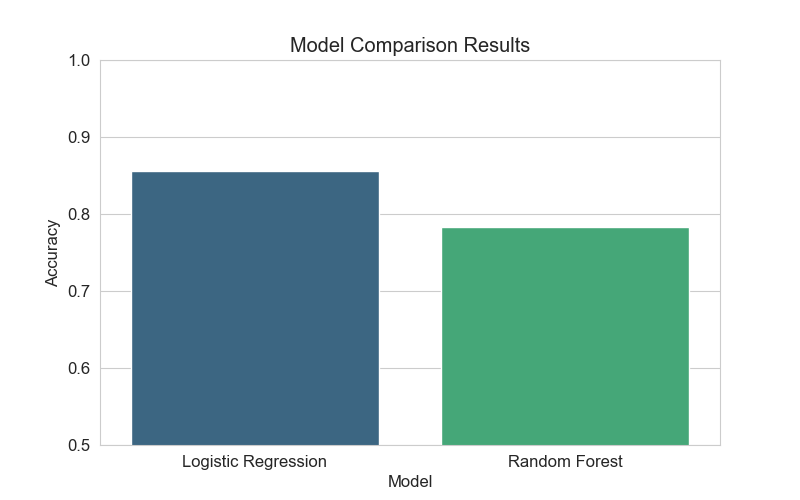
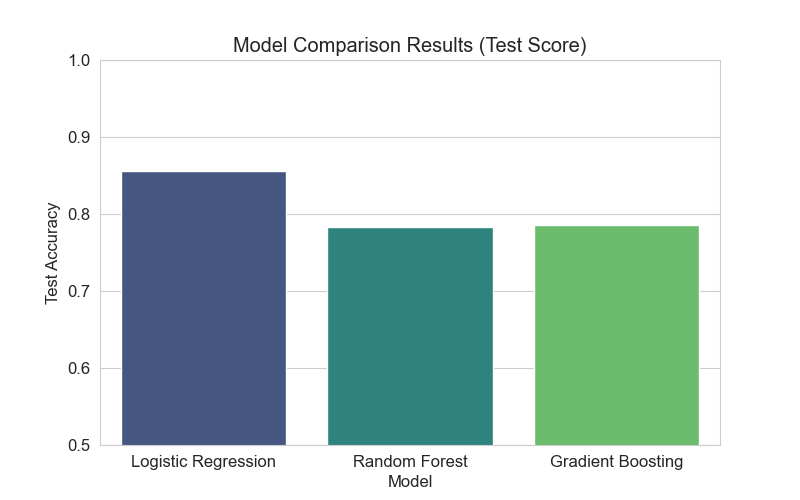
Last Fix before presentation

Changed region(s): [[0.125, 0.33, 0.875, 0.96], [0.2812, 0.06, 0.75, 0.12], [0.0312, 0.42, 0.0938, 0.6]]

diff --git a/main.py b/main.py
@@ -4,18 +4,18 @@ import re
 import matplotlib.pyplot as plt
 import seaborn as sns
 from textblob import TextBlob
-import os # Dosya kaydetmek için
+import os
 
 # Scikit-learn Libraries
-from sklearn.model_selection import train_test_split, StratifiedKFold, RandomizedSearchCV
+from sklearn.model_selection import train_test_split, RandomizedSearchCV, learning_curve
 from sklearn.feature_extraction.text import TfidfVectorizer
 from sklearn.linear_model import LogisticRegression
-from sklearn.ensemble import RandomForestClassifier
+from sklearn.ensemble import RandomForestClassifier, GradientBoostingClassifier
 from sklearn.pipeline import FeatureUnion
 from sklearn.preprocessing import FunctionTransformer, LabelEncoder
 from sklearn.metrics import accuracy_score, classification_report, confusion_matrix
 
-# Imbalanced-learn (Template 4.2: Data Augmentation for Text)
+# Imbalanced-learn
 from imblearn.over_sampling import SMOTE
 from imblearn.pipeline import Pipeline as ImbPipeline 
 
@@ -28,28 +28,17 @@ sns.set_style("whitegrid")
 plt.rcParams['figure.figsize'] = (10, 6)
 plt.rcParams['font.size'] = 12
 
-# Rapor için görsellerin kaydedileceği klasörü oluştur
 if not os.path.exists('project_results'):
     os.makedirs('project_results')
 
 # ==========================================
-# 1. HELPER FUNCTIONS (Template 4.2: Pre-processing)
-# ==========================================
-# ==========================================
-# 1. HELPER FUNCTIONS (GÜNCELLENMİŞ HALİ)
+# 1. HELPER FUNCTIONS
 # ==========================================
 def clean_text(text):
     text = str(text).lower()
-    
-    # [DÜZELTME BURADA] '' yerine ' ' (boşluk) koyduk
-    # Böylece "it.I" -> "it I" olur, "iti" oluşmaz.
     text = re.sub(r'[^\w\s]', ' ', text)  
-    
     text = re.sub(r'\d+', '', text)
-    
-    # Fazladan oluşan boşlukları (  ) teke indirip temizleyelim
     text = re.sub(r'\s+', ' ', text).strip()
-    
     return text
 
 def get_sentiment(text):
@@ -62,14 +51,10 @@ def calculate_sentiment_scores(x):
     return x.apply(get_sentiment).values.reshape(-1, 1)
 
 def plot_feature_importance(model, feature_names, model_name):
-    """
-    Plots and SAVES the feature importance graph.
-    """
     importances = []
-    
-    if hasattr(model, 'coef_'): # Logistic Regression
+    if hasattr(model, 'coef_'): 
         importances = model.coef_[0]
-    elif hasattr(model, 'feature_importances_'): # Random Forest
+    elif hasattr(model, 'feature_importances_'): 
         importances = model.feature_importances_
     
     if len(importances) == len(feature_names):
@@ -80,47 +65,66 @@ def plot_feature_importance(model, feature_names, model_name):
         plt.figure(figsize=(12, 6))
         sns.barplot(x='Importance', y='Feature', data=df_top, palette='viridis')
         plt.title(f'Top 15 Most Important Features - {model_name}')
-        plt.xlabel('Importance Score')
-        plt.ylabel('Features')
         plt.tight_layout()
-        
-        # SAVE FIGURE (Template 6 Requirement)
         filename = f"project_results/feature_importance_{model_name.replace(' ', '_')}.png"
         plt.savefig(filename)
         print(f"[INFO] Feature Importance Plot saved to {filename}")
-        plt.show()
     else:
         print("Feature mismatch, skipping plot.")
 
+# --- YENİ EKLENEN LEARNING CURVE FONKSİYONU ---
+def plot_learning_curve_graph(estimator, X, y, model_name):
+    print(f"\n--- GENERATING LEARNING CURVE FOR {model_name} ---")
+    print("(This may take a moment as it retrains the model on different subset sizes...)")
+    
+    train_sizes, train_scores, test_scores = learning_curve(
+        estimator, X, y, cv=5, n_jobs=1, 
+        train_sizes=np.linspace(0.1, 1.0, 5), # Verinin %10, %32, %55, %77 ve %100'ü ile dener
+        scoring='accuracy'
+    )
+
+    train_scores_mean = np.mean(train_scores, axis=1)
+    train_scores_std = np.std(train_scores, axis=1)
+    test_scores_mean = np.mean(test_scores, axis=1)
+    test_scores_std = np.std(test_scores, axis=1)
+
+    plt.figure(figsize=(10, 6))
+    plt.title(f"Learning Curve: {model_name}")
+    plt.xlabel("Training Examples (Data Size)")
+    plt.ylabel("Score (Accuracy)")
+    plt.grid(True)
+
+    # Train Curve
+    plt.fill_between(train_sizes, train_scores_mean - train_scores_std,
+                     train_scores_mean + train_scores_std, alpha=0.1, color="r")
+    plt.plot(train_sizes, train_scores_mean, 'o-', color="r", label="Training Score")
+
+    # CV Curve
+    plt.fill_between(train_sizes, test_scores_mean - test_scores_std,
+                     test_scores_mean + test_scores_std, alpha=0.1, color="g")
+    plt.plot(train_sizes, test_scores_mean, 'o-', color="g", label="Cross-Validation Score")
+
+    plt.legend(loc="best")
+    filename = "project_results/learning_curve.png"
+    plt.savefig(filename)
+    print(f"✅ Saved: {filename}")
+    # plt.show()
+
 # ==========================================
-# 2. DATA LOADING & DESCRIPTION (Template 4.1)
+# 2. DATA LOADING
 # ==========================================
-print("--- 1. DATASET DESCRIPTION (For Template Section 4.1) ---")
+print("--- 1. DATASET DESCRIPTION ---")
 try:
     df = pd.read_csv("fake reviews dataset.csv", encoding="utf-8")
     print(f"Total Number of Samples: {len(df)}")
-    
-    # Class Distribution (Rapora yazman gereken sayılar)
-    print("\nClass Distribution:")
-    dist = df['label'].value_counts()
-    print(dist)
-    
-    # Görselleştir ve Kaydet
-    plt.figure(figsize=(6, 4))
-    sns.countplot(x='label', data=df, palette='viridis')
-    plt.title('Class Distribution (Original)')
-    plt.savefig('project_results/class_distribution.png')
-    plt.show()
-    
 except FileNotFoundError:
     print("ERROR: 'fake reviews dataset.csv' not found.")
     exit()
 
 # ==========================================
-# 3. PRE-PROCESSING (Template 4.2)
+# 3. PRE-PROCESSING
 # ==========================================
-print("\n--- 2. PRE-PROCESSING (For Template Section 4.2) ---")
-print("Steps applied: Lowercasing, Regex Cleaning, Label Encoding.")
+print("\n--- 2. PRE-PROCESSING ---")
 df['text_cleaned'] = df['text_'].apply(clean_text)
 
 le = LabelEncoder()
@@ -129,23 +133,19 @@ classes = list(le.classes_)
 print(f"Classes Encoded: {classes}")
 
 # ==========================================
-# 4. DATA SPLITTING (Template 5.1)
+# 4. DATA SPLITTING
 # ==========================================
-print("\n--- 3. DATA SPLITTING (For Template Section 5.1) ---")
-print("Splitting Strategy: 80% Train, 20% Test (Stratified)")
+print("\n--- 3. DATA SPLITTING ---")
 X = df['text_cleaned'] 
 X_train, X_test, y_train, y_test = train_test_split(
     X, y, test_size=0.2, random_state=42, stratify=y, shuffle=True
 )
 
 # ==========================================
-# 5. MODELING & COMPARISON (Template 5.2)
+# 5. MODELING & COMPARISON
 # ==========================================
 print("\n" + "="*50)
-print("--- 4. MACHINE LEARNING MODELS (For Template Section 5.2) ---")
-print("Comparison: Logistic Regression vs Random Forest")
-print("Validation: 5-Fold Cross Validation (Template Compliance)")
-print("Augmentation: SMOTE applied for text data balance")
+print("--- 4. MACHINE LEARNING MODELS ---")
 print("="*50)
 
 combined_features = FeatureUnion([
@@ -158,7 +158,7 @@ model_configs = [
         'name': 'Logistic Regression',
         'pipeline': ImbPipeline([
             ('features', combined_features),
-            ('smote', SMOTE(random_state=42)), # DATA AUGMENTATION
+            ('smote', SMOTE(random_state=42)),
             ('clf', LogisticRegression(max_iter=1000))
         ]),
         'params': {'clf__C': [0.1, 1, 10]}
@@ -167,66 +167,102 @@ model_configs = [
         'name': 'Random Forest',
         'pipeline': ImbPipeline([
             ('features', combined_features),
-            ('smote', SMOTE(random_state=42)), # DATA AUGMENTATION
+            ('smote', SMOTE(random_state=42)),
             ('clf', RandomForestClassifier(random_state=42, n_jobs=1))
         ]),
         'params': {'clf__n_estimators': [50, 100], 'clf__max_depth': [10, 20]}
+    },
+    {
+        'name': 'Gradient Boosting',
+        'pipeline': ImbPipeline([
+            ('features', combined_features),
+            ('smote', SMOTE(random_state=42)),
+            ('clf', GradientBoostingClassifier(random_state=42))
+        ]),
+        'params': {
+            'clf__n_estimators': [50, 100], 
+            'clf__learning_rate': [0.1, 0.2],
+            'clf__max_depth': [3, 5]
+        }
     }
 ]
 
 best_global_score = 0
 best_global_model = None
 best_global_name = ""
-results_summary = []
+results_summary = [] 
 
 for config in model_configs:
     print(f"\n⏳ TRAINING: {config['name']} with 5-Fold CV...")
     
-    # CV=5 YAPILDI (Template isteği)
     rs = RandomizedSearchCV(
         config['pipeline'], param_distributions=config['params'],
         n_iter=3, cv=5, scoring='f1_macro', n_jobs=1, random_state=42, verbose=1
     )
     rs.fit(X_train, y_train)
     
-    # Evaluation (Template 6)
-    y_pred = rs.best_estimator_.predict(X_test)
-    acc = accuracy_score(y_test, y_pred)
+    y_train_pred = rs.best_estimator_.predict(X_train)
+    train_acc = accuracy_score(y_train, y_train_pred)
     
-    print(f"✅ {config['name']} Accuracy: {acc:.4f}")
+    y_pred = rs.best_estimator_.predict(X_test)
+    test_acc = accuracy_score(y_test, y_pred)
+    
+    print(f"📊 {config['name']} Performance Analysis:")
+    print(f"   Train Accuracy: {train_acc:.4f}")
+    print(f"   Test Accuracy:  {test_acc:.4f}")
+    
+    diff = train_acc - test_acc
+    if diff > 0.10: 
+        print(f"   ⚠ WARNING: High Overfitting Risk! (Gap: {diff:.2f})")
+    else:
+        print(f"   ✅ Model seems Balanced (Gap: {diff:.2f})")
+
     print(classification_report(y_test, y_pred, target_names=classes))
     
-    # Confusion Matrix Plot & Save
+    # Confusion Matrix Save
     cm = confusion_matrix(y_test, y_pred)
     plt.figure(figsize=(6, 4))
     sns.heatmap(cm, annot=True, fmt='d', cmap='Blues', xticklabels=classes, yticklabels=classes)
     plt.title(f'Confusion Matrix - {config["name"]}')
     plt.savefig(f'project_results/confusion_matrix_{config["name"].replace(" ", "_")}.png')
-    plt.show()
+    plt.close() 
     
-    results_summary.append({'Model': config['name'], 'Accuracy': acc})
+    results_summary.append({
+        'Model': config['name'], 
+        'Train Accuracy': train_acc,
+        'Test Accuracy': test_acc
+    })
     
-    if acc > best_global_score:
-        best_global_score = acc
+    if test_acc > best_global_score:
+        best_global_score = test_acc
         best_global_model = rs.best_estimator_
         best_global_name = config['name']
 
 # ==========================================
-# 6. FINAL RESULTS SUMMARY (Template 6)
+# 6. FINAL RESULTS & PLOTS
 # ==========================================
 print("\n" + "*"*40)
 print(f"🏆 WINNER MODEL: {best_global_name} (Score: {best_global_score:.4f})")
 print("*"*40)
 
-# Accuracy Comparison Plot & Save
-plt.figure(figsize=(8, 5))
-sns.barplot(x='Model', y='Accuracy', data=pd.DataFrame(results_summary), palette='viridis')
-plt.title('Model Comparison Results')
-plt.ylim(0.5, 1.0)
-plt.savefig('project_results/model_comparison.png')
-plt.show()
+# 1. Overfitting Bar Plot
+df_res = pd.DataFrame(results_summary)
+df_melted = df_res.melt(id_vars="Model", var_name="Dataset", value_name="Accuracy")
+plt.figure(figsize=(10, 6))
+sns.barplot(x='Model', y='Accuracy', hue='Dataset', data=df_melted, palette='muted')
+plt.title('Train vs Test Accuracy (Overfitting Check)')
+plt.ylim(0.5, 1.05)
+plt.savefig('project_results/overfitting_analysis.png')
+print("✅ Saved: project_results/overfitting_analysis.png")
 
-# Feature Importance Plot & Save
+# 2. Learning Curve (Sadece Kazanan Model İçin)
+# Bu işlem biraz uzun sürebilir çünkü modeli 5-6 kere tekrar eğitir
+try:
+    plot_learning_curve_graph(best_global_model, X_train, y_train, best_global_name)
+except Exception as e:
+    print(f"Could not plot learning curve: {e}")
+
+# 3. Feature Importance
 print(f"\n--- GENERATING FEATURE IMPORTANCE FOR REPORT ({best_global_name}) ---")
 try:
     step_clf = best_global_model.named_steps['clf']
@@ -237,7 +273,6 @@ try:
     feature_names.append("Sentiment_Score")
     
     plot_feature_importance(step_clf, feature_names, best_global_name)
-
 except Exception as e:
     print(f"Could not plot features: {e}")
 
@@ -255,7 +290,12 @@ while True:
     input_series = pd.Series([clean_text(user_input)])
     prediction_idx = best_global_model.predict(input_series)[0]
     raw_label = le.inverse_transform([prediction_idx])[0]
-    proba = best_global_model.predict_proba(input_series).max()
+    
+    try:
+        proba = best_global_model.predict_proba(input_series).max()
+        conf_str = f"(Confidence: {proba*100:.2f}%)"
+    except:
+        conf_str = ""
     
     label = "FAKE (Computer Generated)" if raw_label == 'CG' else "REAL (Original)"
-    print(f"Prediction: {label} (Confidence: {proba*100:.2f}%)")
+    print(f"Prediction: {label} {conf_str}")
